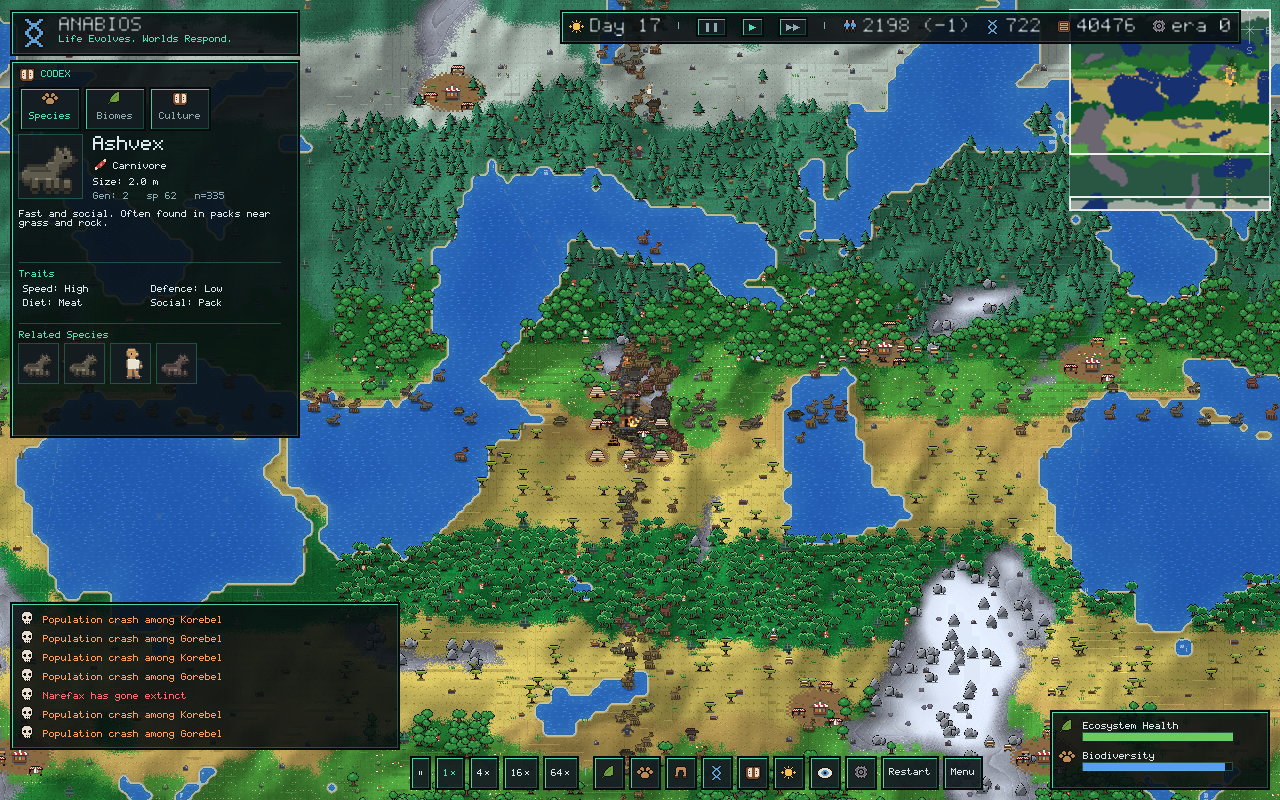
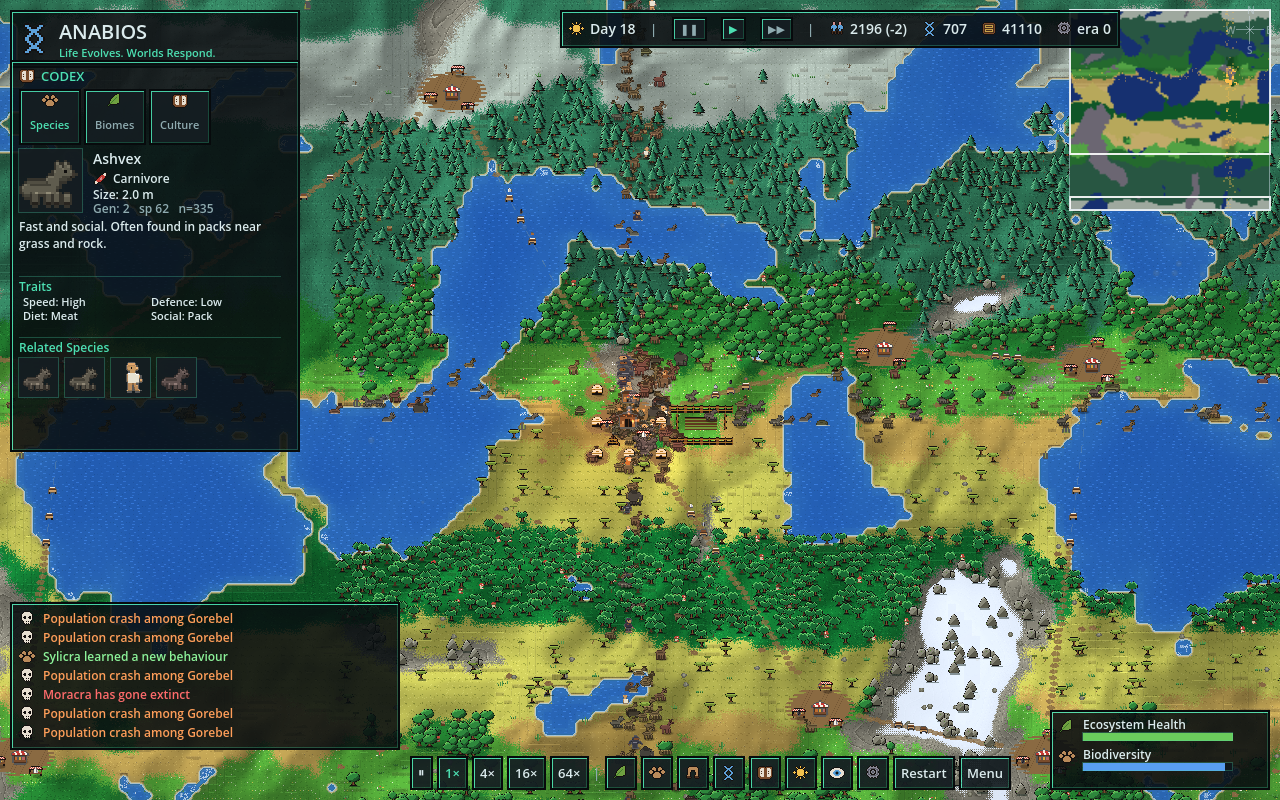
gallery: refresh the settlement 1x and 2x stills with the roads
Claude-Session: https://claude.ai/code/session_019kbTtZKC2VJBPY6SALU64h

diff --git a/gallery/README.md b/gallery/README.md
@@ -47,7 +47,7 @@ pins an agent in the unit card.
 | scale-settlement-t891-raided-4x.png | `settlement` t891 4× (`ANABIOS_VILLAGE_ERA=1 ANABIOS_VILLAGE_FLAGS=127`) | The same camp as a raided thatch village: burnt ruins with pixel flames and black smoke over them, the palisade, the fenced field. |
 | scale-settlement-t3120-camp-4x.png | `settlement` t3120 4× | The same camp later: hearth smoke, herds at the square, codex species page. |
 | scale-settlement-t1020-codex-species-2x.png | `settlement` t1020 2× (`ANABIOS_CODEX_TAB=1`) | The settlement peninsula: flat lake water with block ripples, dithered biome borders, mixed oak silhouettes, olive savanna, resting herds with their heads up, the HUD. |
-| scale-settlement-t1591-1x.png | `settlement` t1591 1× | The same world at 1×. |
+| scale-settlement-t1591-1x.png | `settlement` t1591 1× | The same world at 1×: dirt roads threading between the market squares. |
 | scale-settlement-t691-overview.png | `settlement` t691, `ANABIOS_CAM_FIT=1` | Whole-world framing: the overview mip with the density dots. |
 | scale-settlement-t891-market-8x.png | `settlement` t891 8× at (1060, 298) | The market square up close: stalls, goods on the counters, carts, the square's earth at the ground tiles' grain. |
 | scale-trade-hubs-t600-roads-2x.png | `trade-hubs` t600 2× at (1060, 298) | Dirt roads worn along the caravan routes from the market square through the woods, stopping at the water. |
